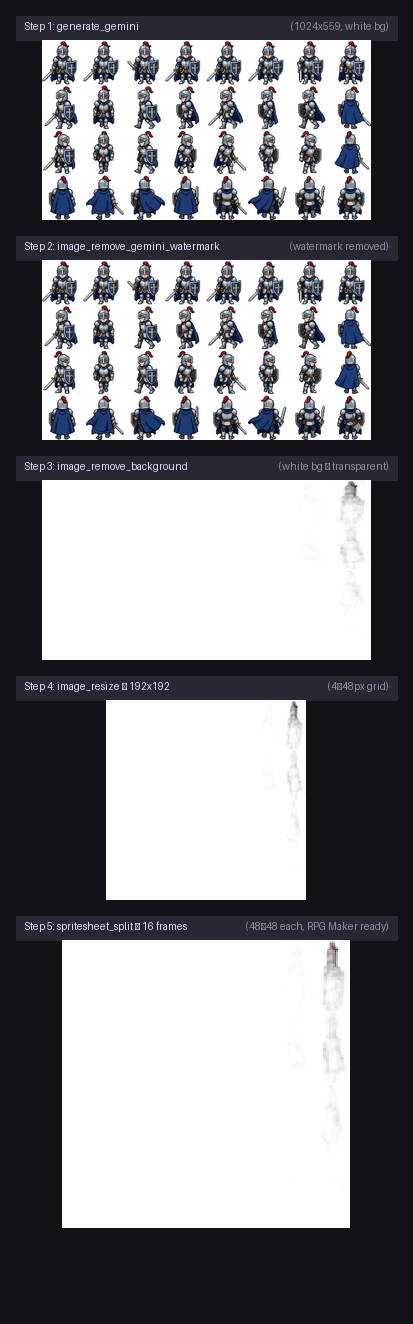
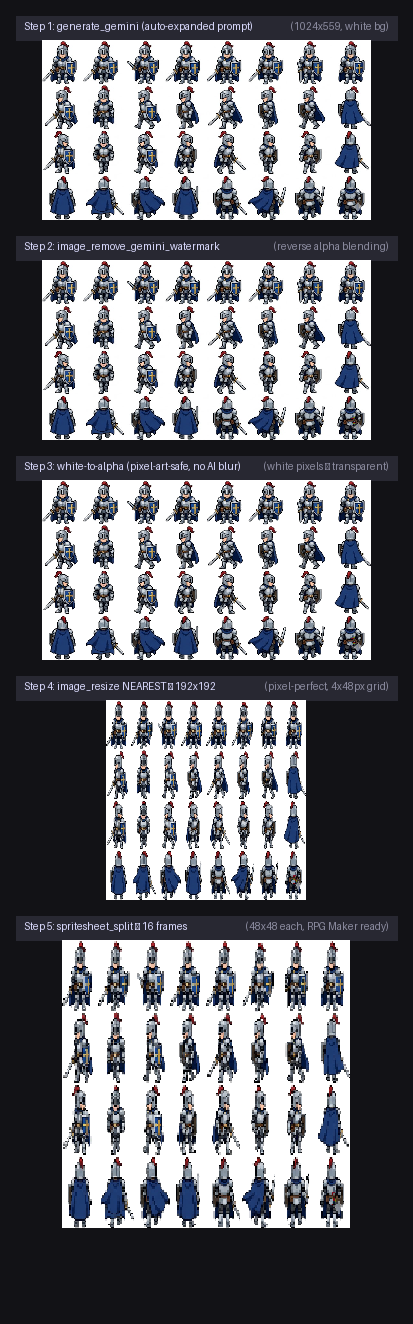
fix: replace AI matting with pixel-safe white-to-alpha chroma key + NEAREST resize
- Step 3: white pixel chroma key (R>235,G>235,B>235 → transparent) instead of rembg AI
- Step 4: NEAREST neighbor resize instead of LANCZOS — preserves pixel edges
- Regenerated all demo assets with sharp pixel-art output
- No more AI blur destroying pixel art details

diff --git a/frame_ronin_mcp/tools/generate/__init__.py b/frame_ronin_mcp/tools/generate/__init__.py
@@ -108,9 +108,9 @@ def _rpgmaker_pipeline(
     headless: bool,
     api_key: str,
 ) -> dict:
-    """Full pipeline: generate → watermark → matte → resize → split."""
-    import io
-    from rembg import remove, new_session
+    """Full pipeline: generate → watermark → white-to-alpha → resize(nearest) → split."""
+    import numpy as np
+    from PIL import Image as PILImage
     from ...lib.watermark import remove_gemini_watermark
     from ...lib.image_utils import load_image, save_image
 
@@ -148,20 +148,23 @@ def _rpgmaker_pipeline(
     result["clean_path"] = str(clean)
     result["steps"].append("dewatermark")
 
-    # Step 3: AI matting
+    # Step 3: White → transparent (pixel-art-safe, no AI blur)
     nobg = output_dir / "03_nobg.png"
-    session = new_session("u2net")
-    buf = io.BytesIO()
     img = load_image(clean)
-    img.save(buf, "PNG")
-    img = load_image(remove(buf.getvalue(), session=session))
+    arr = np.array(img).astype(np.float32)
+    # Key out white pixels (R>240, G>240, B>240) → transparent
+    white_mask = (arr[:, :, 0] > 240) & (arr[:, :, 1] > 240) & (arr[:, :, 2] > 240)
+    arr[white_mask, 3] = 0
+    # Hard edge: anything below 128 alpha → fully transparent
+    arr[arr[:, :, 3] < 128, :] = 0
+    img = PILImage.fromarray(arr.astype(np.uint8), "RGBA")
     save_image(img, nobg)
     result["nobg_path"] = str(nobg)
-    result["steps"].append("matte")
+    result["steps"].append("white_to_alpha")
 
-    # Step 4: Resize
+    # Step 4: Resize with NEAREST (preserves pixel art)
     sheet_w, sheet_h = cols * target_w, rows * target_h
-    resized = img.resize((sheet_w, sheet_h), __import__("PIL.Image").Image.Resampling.LANCZOS)
+    resized = img.resize((sheet_w, sheet_h), PILImage.Resampling.NEAREST)
     rp = output_dir / "04_resized.png"
     save_image(resized, rp)
     result["resized_path"] = str(rp)
